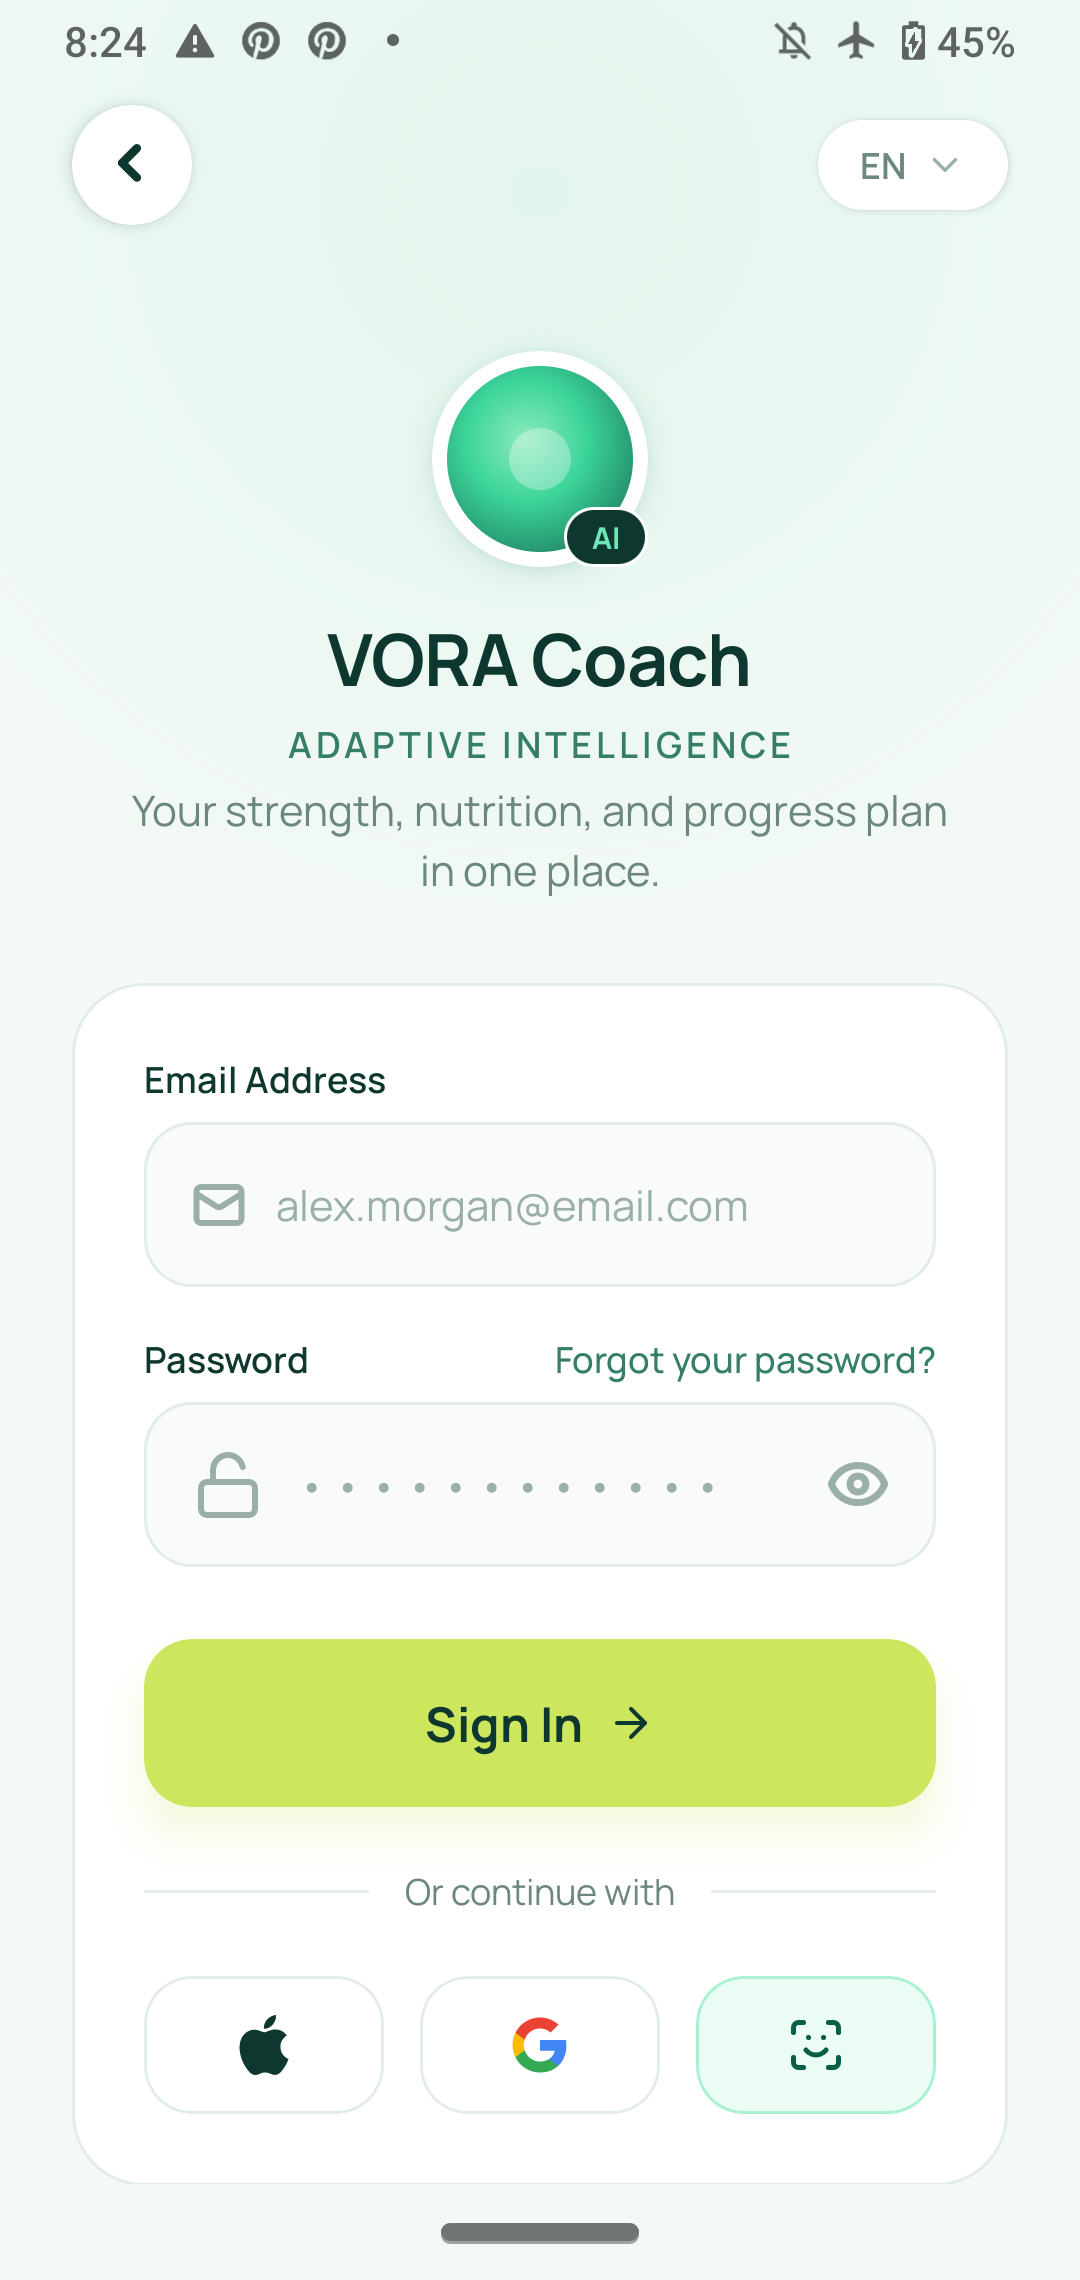
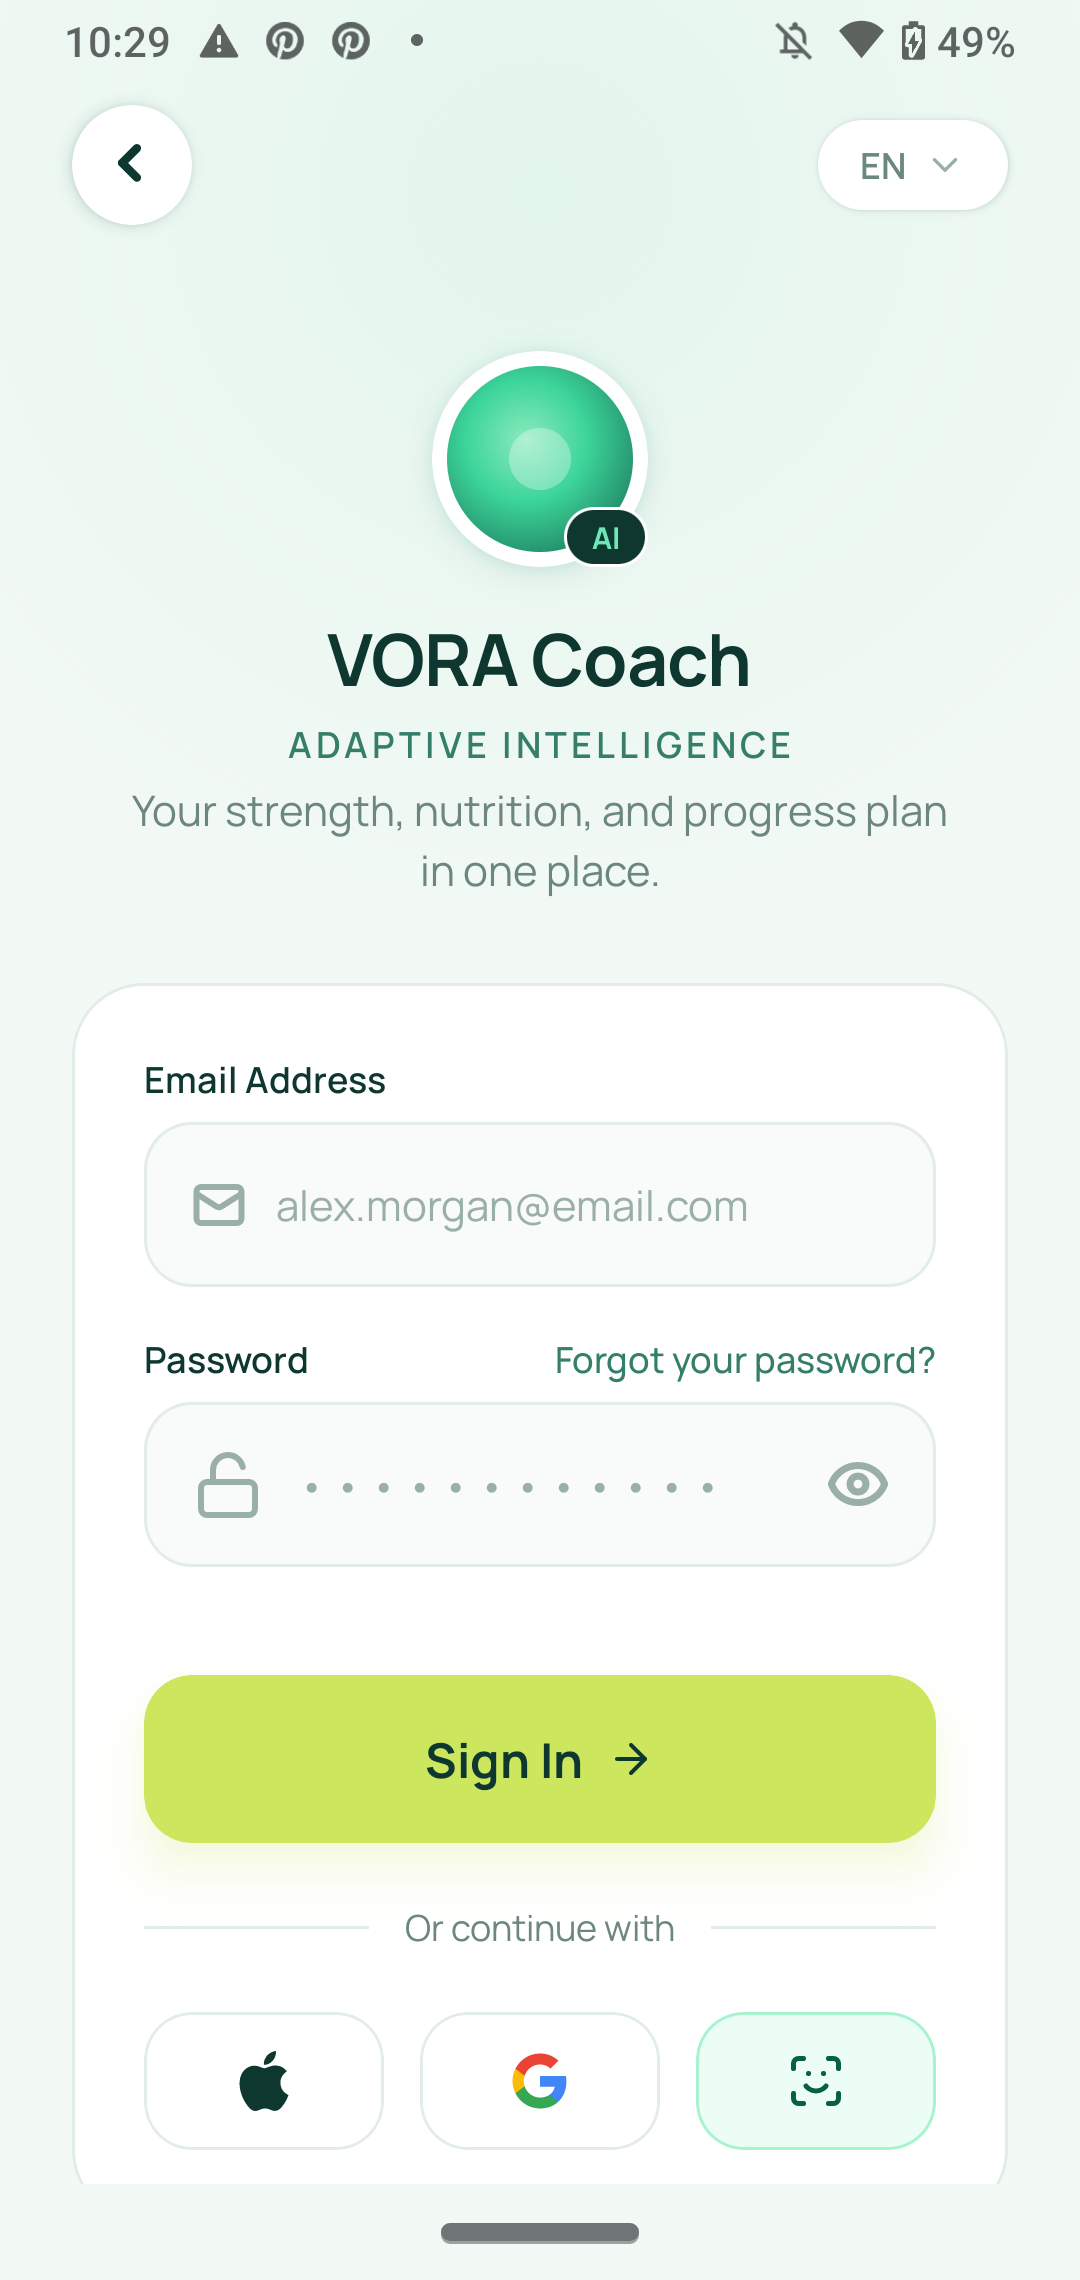
docs(visual): repetir las capturas de las pantallas que cambió main
Refs: UI01, UI03

diff --git a/docs/evidencia/visual/control-final.md b/docs/evidencia/visual/control-final.md
@@ -1,6 +1,6 @@
 # Control visual final de las 37 pantallas (UI01, UI03)
 
-Pase sobre `main` en 394fc28 (26/10/2026), en la rama `fix/visual-control-final`. Las capturas se sacaron en un moto g(8) plus: 411 dp es el tamaño del teléfono y 360 dp se forzó con `wm density 480`. El teléfono estaba en inglés y en modo claro, con el mock local para Workout. Cada flujo lo revisó `revisor-visual` en contexto limpio, contra su frame de `docs/figma/<Flujo> Flow.png`.
+Pase sobre `main` en 394fc28 (26/10/2026), en la rama `fix/visual-control-final`. Las capturas se sacaron en un moto g(8) plus: 411 dp es el tamaño del teléfono y 360 dp se forzó con `wm density 480`. El teléfono estaba en inglés y en modo claro, con el mock local para Workout. Después de traer `main` (PR #57, Firebase, y PR #58, coach con historial) se repitieron Login 01 y 02, Home 01, Voice 05 y Profile 01, 02 y 06, con una sesión real de Firebase. Cada flujo lo revisó `revisor-visual` en contexto limpio, contra su frame de `docs/figma/<Flujo> Flow.png`.
 
 Nombres: `<flujo>-NN-411dp.png` y `-360dp.png`. Cuando la pantalla no entra entera, hay además una `-scroll.png` con la pantalla bajada hasta el final. En la columna "Scroll" se indica en qué tamaño hay esa captura extra.
 
@@ -38,13 +38,13 @@ Nombres: `<flujo>-NN-411dp.png` y `-360dp.png`. Cuando la pantalla no entra ente
 | 30 | Progress / 05 Health Trends | `progress-05-411dp` | `progress-05-360dp` | 360 | APROBADA | — |
 | 31 | Progress / 06 Weekly Review | `progress-06-411dp` | `progress-06-360dp` | 411 y 360 | APROBADA | — |
 | 32 | Profile / 01 Dashboard | `profile-01-411dp` | `profile-01-360dp` | 411 y 360 | APROBADA | — |
-| 33 | Profile / 02 Edit Profile | `profile-02-411dp` | `profile-02-360dp` | 360 | APROBADA | — |
+| 33 | Profile / 02 Edit Profile | `profile-02-411dp` | `profile-02-360dp` | 360 | APROBADA | Corregida (ver nota 5) |
 | 34 | Profile / 03 Goals & Preferences | `profile-03-411dp` | `profile-03-360dp` | 411 y 360 | APROBADA | — |
 | 35 | Profile / 04 Nutrition Preferences | `profile-04-411dp` | `profile-04-360dp` | 411 y 360 | APROBADA | — |
 | 36 | Profile / 05 Voice & AI Settings | `profile-05-411dp` | `profile-05-360dp` | 411 y 360 | APROBADA | — |
 | 37 | Profile / 06 Settings | `profile-06-411dp` | `profile-06-360dp` | 411 y 360 | APROBADA | — |
 
-Resultado: las 37 pantallas están APROBADA. Login 01 y 02 pasaron en la segunda vuelta del revisor, después de la corrección. UI03 se cumple en las 37: a 360 dp no queda contenido inalcanzable, y lo que no entra se alcanza con scroll.
+Resultado: las 37 pantallas están APROBADA. Login 01 y 02 y Edit Profile pasaron en la segunda vuelta del revisor, después de sus correcciones. UI03 se cumple en las 37: a 360 dp no queda contenido inalcanzable, y lo que no entra se alcanza con scroll.
 
 ## Notas
 
@@ -52,8 +52,11 @@ Resultado: las 37 pantallas están APROBADA. Login 01 y 02 pasaron en la segunda
 2. **Photo Analysis:** el revisor marcó que las etiquetas "Grilled Chicken" y "Basmati Rice" parecen cruzadas sobre la foto. Zaki comparó el frame en Figma y las etiquetas están igual que en el diseño, así que no hay nada que corregir.
 3. **Workout Dashboard:** el Figma muestra "Focus: Chest & Back" en la tarjeta del entrenamiento recomendado. El catálogo de la API (`/v1/workouts`) no trae los grupos musculares, que solo vienen en el detalle (`/v1/workouts/{id}`), así que el focus se muestra en Workout Details (13). Agregarlo en el Dashboard sería una tarea del carril C: otra consulta desde `WorkoutsViewModel`.
 4. **Today's Meals y Meal Details:** el Figma lista cada alimento con sus gramos y sus kcal. La app muestra una sola fila por comida, porque la comida se guarda sin separar los alimentos. "Delete Meal" (25) no está en el Figma: es un agregado por RF04.
+5. **Edit Profile (corregida):** después del PR #57, Height y Weight mostraban "178" y "76", sin unidad. En el Figma dicen "178 cm" y "76 kg". Ahora `NumberField` (`EditProfileScreen.kt`) dibuja la unidad como sufijo visual, con los textos `edit_unit_cm` y `edit_unit_kg`. El valor que se edita sigue siendo solo el número.
 
 ## Diferencias menores que se aceptan
+
+- SignIn: desde el PR #57 hay unos 13 dp de más entre Password y "Sign In". Es el lugar que queda reservado para el error de Firebase.
 
 - Exercise Details: hay un solo paso y la foto es fija, porque eso es lo que trae el mock.
 - Los datos de ejemplo (calorías, fechas fijas de Progress, nombres en castellano del mock) no se cuentan como diferencias.

diff --git a/docs/BITACORA.md b/docs/BITACORA.md
@@ -884,12 +884,11 @@ Formato:
 - Qué propuso la IA y qué cambiamos:
   - La IA propuso 5 correcciones: barra de estado en Login, etiquetas de Photo Analysis, columna del medio de Workout Complete, botón "Preview" y focus en Workout Dashboard. Zaki eligió primero solo la del focus. Al revisarla, la IA vio que el catálogo de la API no trae los grupos musculares, así que es carril C y no un arreglo visual: quedó anotada como diferencia, sin código. Después Zaki pidió corregir Login. La causa estaba en `VoraAccessScaffold` (zona de Martu): ponía `statusBarsPadding` y `navigationBarsPadding` adentro del `verticalScroll`, y ahora van afuera. Las etiquetas de Photo Analysis las comparó Zaki en Figma y son iguales al diseño. La columna de Workout Complete y el botón "Preview" quedaron como diferencias menores aceptadas.
   - Varias de las sospechas de la IA las descartaron los revisores, porque el Figma es igual: los campos de SignUp, "3/5 complete" en dos renglones, el anillo sin número de Meal Details y el título "VORA Coach" de la 36.
-  - Errores de captura corregidos en la marcha. Processing (7) y Food Analysis (22) pasan solas a la pantalla siguiente, así que se sacaron con una ráfaga de 20 capturas. La primera versión del script detectaba el scroll con `uiautomator` y no veía las `LazyColumn`. La segunda guardaba capturas "con scroll" que solo diferían en la hora o en el cronómetro. La tercera arrancaba el swipe sobre el pie fijo de Voice y no bajaba. Al final se compara la pantalla antes y después de bajar, sin la barra de estado, y el swipe arranca del medio. En el recorrido se guardaron comidas repetidas, y Zaki las borró antes de repetir Home.
-  - Zaki autorizó que la IA use `input swipe` solo para bajar en las capturas.
   - Se borraron 53 capturas viejas (`-394dp`, `-scrolled`, los nombres viejos de Voice, `nutrition-07-360dp-abajo` y `nutrition-02-*-scroll`). Las que cita esta bitácora como evidencia de otras condiciones (modo oscuro, castellano, tarea del tema) se dejaron. Solo se cambió la referencia de `voice-01-idle-360dp-scroll.png` por `voice-01-360dp-scroll.png`, que muestra lo mismo.
-- Revisores: `revisor-visual` en los 7 flujos y una segunda vuelta en Login después de la corrección, que salió APROBADA. Quedó un detalle menor sin aplicar: el tilde de "8+ secure characters" es gris y en el Figma es verde oscuro. `revisor-requisitos` no corrió porque no hay spec.
+- Bug encontrado y no corregido: al tocar la pestaña en la que ya se está (por ejemplo Home desde Notifications), `irAPestana` (`MainActivity.kt`) restaura la subpantalla en lugar de volver al inicio de la pestaña. Es de navegación (zona de Fiore) y va por el carril D en otra rama.
+- Revisores: `revisor-visual` en los 7 flujos y una segunda vuelta en Login y en Edit Profile después de las correcciones, las dos APROBADA. Quedó un detalle menor sin aplicar: el tilde de "8+ secure characters" es gris y en el Figma es verde oscuro. `revisor-requisitos` no corrió porque no hay spec.
 - Tests: no se cambiaron. `assembleDebug`, `testDebugUnitTest` y `lintDebug` en verde.
 - Evidencia: `docs/evidencia/visual/<flujo>-NN-{411,360}dp[-scroll].png` (74 capturas base y 33 con scroll) y `control-final.md`.
 - Evidencia de la corrección: `login-0{1,2}-*`, sacadas con el arreglo. Las capturas de antes no se guardaron: el problema queda descrito en la nota 1 de `control-final.md`.
-- Sin verificar: las medidas se tomaron en proporción contra los PNG exportados, no en dp. No se probó la corrección de Login con el teclado abierto, que usa `imePadding`.
+- Sin verificar: las medidas se tomaron en proporción contra los PNG exportados, no en dp. No se probó la corrección de Login con el teclado abierto, que usa `imePadding`. El `revisor-arquitectura` del cambio de unidades de Edit Profile se cortó antes de terminar, y escribir y borrar en Height y Weight con el sufijo no se probó a mano.
 - Commit / PR:
